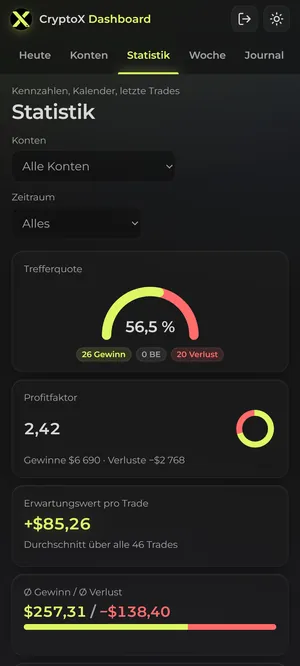
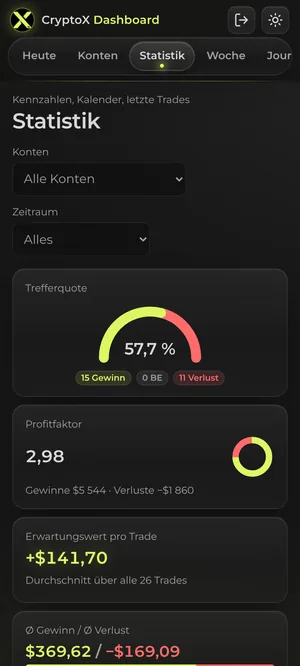
crypto-x.at: Fortschrittsbalken dünn, Hero mit Abstand, neue Dashboard-Bilder
Fortschrittsbalken wird abgeschnitten statt gestaucht (wie tim-kofler.at #219),
so bleibt der Leuchtschein eine dünne Linie. Das Dashboard-Fenster im Hero ist
rundum abgeschlossen und hat Luft zum Zahlenkasten. Alle Dashboard-Bilder neu
in der Glas-Optik, mit erfundenen Demo-Daten. Passende sizes für die
Handy-Bilder, Datenschutz-Link im Formular unterstrichen.

Claude-Session: https://claude.ai/code/session_01ECftty6yMTiCXhDQWzRpNz

diff --git a/index.html b/index.html
@@ -21,8 +21,8 @@
   <link rel="icon" href="/assets/img/favicon.svg" type="image/svg+xml">
   <link rel="preload" href="/assets/fonts/unbounded.woff2" as="font" type="font/woff2" crossorigin>
   <link rel="preload" href="/assets/fonts/manrope.woff2" as="font" type="font/woff2" crossorigin>
-  <link rel="stylesheet" href="/assets/css/style.css?v=a3c770bf">
-  <link rel="stylesheet" href="/assets/css/fx.css?v=b59cf787">
+  <link rel="stylesheet" href="/assets/css/style.css?v=704c3145">
+  <link rel="stylesheet" href="/assets/css/fx.css?v=bf43237c">
   <script type="application/ld+json">{"@context": "https://schema.org", "@graph": [{"@type": "ProfessionalService", "@id": "https://crypto-x.at/#unternehmen", "name": "Crypto X Solutions", "alternateName": "CryptoX", "url": "https://crypto-x.at/", "image": "https://crypto-x.at/assets/img/og-cryptox.jpg", "logo": "https://crypto-x.at/assets/img/logo-512.png", "email": "tk@crypto-x.at", "telephone": "+4367761773118", "address": {"@type": "PostalAddress", "streetAddress": "Lehen 2", "postalCode": "3281", "addressLocality": "Oberndorf an der Melk", "addressRegion": "Niederösterreich", "addressCountry": "AT"}, "areaServed": {"@type": "Country", "name": "Österreich"}, "founder": {"@id": "https://crypto-x.at/#tim"}, "description": "IT-Dienstleister aus Niederösterreich: Softwareentwicklung, Software-Schulungen und das CryptoX Dashboard für Prop-Firm-Trader.", "knowsAbout": ["Softwareentwicklung", "Prop Trading Tool", "Risikomanagement", "Trading-Software"], "sameAs": ["https://www.instagram.com/crypto_x_solutions/", "https://x.com/Crypto_X_Soln", "https://t.me/Crypto_X_Solutions", "https://g.page/r/CS2eZ1lg7mbtEBI"], "hasMap": "https://g.page/r/CS2eZ1lg7mbtEBI", "hasOfferCatalog": {"@type": "OfferCatalog", "name": "Leistungen", "itemListElement": [{"@type": "Offer", "itemOffered": {"@type": "Service", "name": "Softwareentwicklung", "description": "Individuelle Softwarelösungen wie Rechner, Auswertungen und Dashboards.", "areaServed": "AT"}}, {"@type": "Offer", "itemOffered": {"@type": "Service", "name": "Software-Schulungen", "description": "Schulungen zur technischen Einrichtung und Bedienung von Trading-Software.", "areaServed": "AT"}}, {"@type": "Offer", "itemOffered": {"@type": "Service", "name": "Risiko-Cockpit", "description": "Werkzeug für Risikomanagement im Futures- und Prop-Trading: Tageslimit, Positionsgröße, Checkliste und Trade-Log.", "areaServed": "AT"}}]}}, {"@type": "Person", "@id": "https://crypto-x.at/#tim", "name": "Tim Kofler", "jobTitle": "Softwareentwickler", "url": "https://crypto-x.at/ueber-mich/", "image": "https://crypto-x.at/assets/img/team/tim-portrait.webp", "worksFor": {"@id": "https://crypto-x.at/#unternehmen"}, "sameAs": ["https://www.instagram.com/crypto_x_solutions/", "https://x.com/Crypto_X_Soln", "https://t.me/Crypto_X_Solutions"]}, {"@type": "WebSite", "@id": "https://crypto-x.at/#website", "url": "https://crypto-x.at/", "name": "CryptoX", "inLanguage": "de-AT", "publisher": {"@id": "https://crypto-x.at/#unternehmen"}}]}</script>
 </head>
 <body>
@@ -78,9 +78,9 @@
     <div class="hero__shot reveal">
       <div class="window glass">
         <div class="window__bar"><i></i><i></i><i></i><span>CryptoX Dashboard · Demo-Daten</span></div>
-        <img src="/assets/img/dashboard/heute-1600.webp?v=f98479b8" srcset="/assets/img/dashboard/heute-960.webp?v=8f605e22 960w, /assets/img/dashboard/heute-1600.webp?v=f98479b8 1600w" sizes="(max-width: 1100px) 100vw, 1100px" alt="Tagesüberblick des CryptoX Dashboards mit Ergebnis aller Konten, Warnungen und Trading-Sessions" width="1600" height="830" fetchpriority="high">
+        <img src="/assets/img/dashboard/heute-1600.webp?v=f0af5555" srcset="/assets/img/dashboard/heute-960.webp?v=ab564073 960w, /assets/img/dashboard/heute-1600.webp?v=f0af5555 1600w" sizes="(max-width: 1100px) 100vw, 1100px" alt="Tagesüberblick des CryptoX Dashboards mit Ergebnis aller Konten, Warnungen und Trading-Sessions" width="1600" height="830" fetchpriority="high">
       </div>
-      <div class="hero__phone"><div class="phone"><img src="/assets/img/dashboard/handy-trade-600.webp?v=30f633b7" srcset="/assets/img/dashboard/handy-trade-300.webp?v=2899c89a 300w, /assets/img/dashboard/handy-trade-600.webp?v=30f633b7 600w" sizes="260px" alt="Trade am Smartphone eintragen" width="600" height="1333"></div></div>
+      <div class="hero__phone"><div class="phone"><img src="/assets/img/dashboard/handy-trade-600.webp?v=f23c286d" srcset="/assets/img/dashboard/handy-trade-300.webp?v=88f496b8 300w, /assets/img/dashboard/handy-trade-600.webp?v=f23c286d 600w" sizes="(max-width: 680px) 104px, (max-width: 1100px) 170px, 210px" alt="Trade am Smartphone eintragen" width="600" height="1333"></div></div>
     </div>
   </div>
 </section>
@@ -122,7 +122,7 @@
           <p>Ergebnis aller Konten, Konten im Rahmen oder mit Warnung, Fortschritt der Checkliste und die Trading-Sessions von Tokyo bis NY Close, automatisch an die Zeitumstellung angepasst.</p>
           <ul class="ticks"><li>Kacheln für Funded/Live, Challenges und alle Konten</li><li>Rückblick auf jeden früheren Handelstag</li><li>Wirtschaftskalender, übersetzte Schlagzeilen und Fed-Countdown</li><li>Begrüßung und Warnungen auf Wunsch vorgelesen</li></ul>
         </div>
-        <div class="tour__shot glass"><img src="/assets/img/dashboard/heute-1600.webp?v=f98479b8" srcset="/assets/img/dashboard/heute-960.webp?v=8f605e22 960w, /assets/img/dashboard/heute-1600.webp?v=f98479b8 1600w" sizes="(max-width: 900px) 100vw, 760px" alt="Tagesüberblick mit Ergebnis aller Konten und Trading-Sessions" width="1600" height="830" loading="lazy" decoding="async"></div>
+        <div class="tour__shot glass"><img src="/assets/img/dashboard/heute-1600.webp?v=f0af5555" srcset="/assets/img/dashboard/heute-960.webp?v=ab564073 960w, /assets/img/dashboard/heute-1600.webp?v=f0af5555 1600w" sizes="(max-width: 900px) 100vw, 760px" alt="Tagesüberblick mit Ergebnis aller Konten und Trading-Sessions" width="1600" height="830" loading="lazy" decoding="async"></div>
       </div>
       <div class="tour__panel" role="tabpanel" id="panel-konten" aria-labelledby="tab-konten">
         <div class="tour__text">
@@ -131,7 +131,7 @@
           <p>Eine Karte pro Konto mit Kontostand, Fortschritt und Puffer bis zu jeder Grenze. Warnungen stehen im Klartext da, bevor eine Regel bricht.</p>
           <ul class="ticks"><li>Beliebig viele Konten: Challenge, Funded oder Live</li><li>Messbalken für Tageslimit, Daily und Max Drawdown</li><li>Warnung wie „Nur noch $180 bis zur Drawdown-Grenze“</li><li>Kontostand anpassen, wenn du nicht jeden Trade einträgst</li></ul>
         </div>
-        <div class="tour__shot glass"><img src="/assets/img/dashboard/konten-1600.webp?v=e9aa9c13" srcset="/assets/img/dashboard/konten-960.webp?v=ae97ad49 960w, /assets/img/dashboard/konten-1600.webp?v=e9aa9c13 1600w" sizes="(max-width: 900px) 100vw, 760px" alt="Prop-Firm-Konten mit Drawdown, Tageslimit und Fortschritt" width="1600" height="1006" loading="lazy" decoding="async"></div>
+        <div class="tour__shot glass"><img src="/assets/img/dashboard/konten-1600.webp?v=366833ac" srcset="/assets/img/dashboard/konten-960.webp?v=8c5f8067 960w, /assets/img/dashboard/konten-1600.webp?v=366833ac 1600w" sizes="(max-width: 900px) 100vw, 760px" alt="Prop-Firm-Konten mit Drawdown, Tageslimit und Fortschritt" width="1600" height="1006" loading="lazy" decoding="async"></div>
       </div>
       <div class="tour__panel" role="tabpanel" id="panel-regeln" aria-labelledby="tab-regeln">
         <div class="tour__text">
@@ -140,7 +140,7 @@
           <p>Du hinterlegst für jedes Konto die Regeln, die wirklich gelten. Das Dashboard rechnet sie bei jedem Trade automatisch mit.</p>
           <ul class="ticks"><li>Trailing Drawdown (EOD) mit optionalem Lock oder statisch</li><li>Daily Loss Limit der Firma und eigenes Tageslimit</li><li>Konsistenzregel, Mindest-Handelstage, Gewinnziel und Frist</li><li>Auszahlungsrechner für Funded- und Live-Konten</li></ul>
         </div>
-        <div class="tour__shot glass"><img src="/assets/img/dashboard/regeln-1600.webp?v=0ea13e23" srcset="/assets/img/dashboard/regeln-960.webp?v=7fefca23 960w, /assets/img/dashboard/regeln-1600.webp?v=0ea13e23 1600w" sizes="(max-width: 900px) 100vw, 760px" alt="Regeln eines Kontos einstellen" width="1600" height="1000" loading="lazy" decoding="async"></div>
+        <div class="tour__shot glass"><img src="/assets/img/dashboard/regeln-1600.webp?v=ca87e21c" srcset="/assets/img/dashboard/regeln-960.webp?v=b5657e53 960w, /assets/img/dashboard/regeln-1600.webp?v=ca87e21c 1600w" sizes="(max-width: 900px) 100vw, 760px" alt="Regeln eines Kontos einstellen" width="1600" height="1000" loading="lazy" decoding="async"></div>
       </div>
       <div class="tour__panel" role="tabpanel" id="panel-trade" aria-labelledby="tab-trade">
         <div class="tour__text">
@@ -149,7 +149,7 @@
           <p>Konten anhaken, Kontrakte pro Konto wählen, fertig. Punkte, Ergebnis und Session rechnet das Dashboard selbst aus, jeder Wert lässt sich überschreiben.</p>
           <ul class="ticks"><li>Ein Trade auf beliebig vielen Konten gleichzeitig</li><li>Netto-Ergebnis live über alle gewählten Konten</li><li>13 Instrumente vorinstalliert, eigene beliebig ergänzbar</li><li>Import von Trades als JSON-Datei mit Duplikat-Erkennung</li></ul>
         </div>
-        <div class="tour__shot glass"><img src="/assets/img/dashboard/trade-1600.webp?v=24fc31db" srcset="/assets/img/dashboard/trade-960.webp?v=90048451 960w, /assets/img/dashboard/trade-1600.webp?v=24fc31db 1600w" sizes="(max-width: 900px) 100vw, 760px" alt="Trade auf mehreren Konten gleichzeitig eintragen" width="1600" height="1000" loading="lazy" decoding="async"></div>
+        <div class="tour__shot glass"><img src="/assets/img/dashboard/trade-1600.webp?v=aba2b192" srcset="/assets/img/dashboard/trade-960.webp?v=02d1c67f 960w, /assets/img/dashboard/trade-1600.webp?v=aba2b192 1600w" sizes="(max-width: 900px) 100vw, 760px" alt="Trade auf mehreren Konten gleichzeitig eintragen" width="1600" height="1000" loading="lazy" decoding="async"></div>
       </div>
       <div class="tour__panel" role="tabpanel" id="panel-statistik" aria-labelledby="tab-statistik">
         <div class="tour__text">
@@ -158,7 +158,7 @@
           <p>Kennzahlen pro Konto, für alle Challenges oder alle Funded-Konten, für jeden Zeitraum. Dazu Wochenübersicht und ein Journal mit CSV-Export.</p>
           <ul class="ticks"><li>Trefferquote, Profitfaktor und Erwartungswert pro Trade</li><li>P&amp;L-Kalender als Heatmap mit Wochensumme</li><li>Auswertung nach Entry-Typ, Haltedauer und Session</li><li>Derselbe Trade auf mehreren Konten zählt nur einmal</li></ul>
         </div>
-        <div class="tour__shot glass"><img src="/assets/img/dashboard/statistik-1600.webp?v=3347d251" srcset="/assets/img/dashboard/statistik-960.webp?v=a8933a0b 960w, /assets/img/dashboard/statistik-1600.webp?v=3347d251 1600w" sizes="(max-width: 900px) 100vw, 760px" alt="Trading-Statistik mit Trefferquote, Profitfaktor und P&amp;L-Kalender" width="1600" height="1000" loading="lazy" decoding="async"></div>
+        <div class="tour__shot glass"><img src="/assets/img/dashboard/statistik-1600.webp?v=5b136e12" srcset="/assets/img/dashboard/statistik-960.webp?v=ce16e687 960w, /assets/img/dashboard/statistik-1600.webp?v=5b136e12 1600w" sizes="(max-width: 900px) 100vw, 760px" alt="Trading-Statistik mit Trefferquote, Profitfaktor und P&amp;L-Kalender" width="1600" height="1000" loading="lazy" decoding="async"></div>
       </div>
       <div class="tour__panel" role="tabpanel" id="panel-checkliste" aria-labelledby="tab-checkliste">
         <div class="tour__text">
@@ -167,7 +167,7 @@
           <p>Mehrere Checklisten, zum Beispiel eine pro Markt. Punkte legst du selbst an, benennst sie um, sortierst oder löschst sie.</p>
           <ul class="ticks"><li>Eigene Punkte und Auswahlfelder wie Trend Woche/Tag/H4</li><li>News und Termine des Tages, eigener Zustand, Notizen</li><li>Farbe zeigt den Fortschritt, speichert automatisch</li><li>Verlauf: Plan eingehalten oder Checkliste unvollständig</li></ul>
         </div>
-        <div class="tour__shot glass"><img src="/assets/img/dashboard/checkliste-1600.webp?v=e17dcc1a" srcset="/assets/img/dashboard/checkliste-960.webp?v=6e3bcff3 960w, /assets/img/dashboard/checkliste-1600.webp?v=e17dcc1a 1600w" sizes="(max-width: 900px) 100vw, 760px" alt="Checkliste vor dem Trade mit Verlauf" width="1600" height="1006" loading="lazy" decoding="async"></div>
+        <div class="tour__shot glass"><img src="/assets/img/dashboard/checkliste-1600.webp?v=7eeff7d7" srcset="/assets/img/dashboard/checkliste-960.webp?v=c013c521 960w, /assets/img/dashboard/checkliste-1600.webp?v=7eeff7d7 1600w" sizes="(max-width: 900px) 100vw, 760px" alt="Checkliste vor dem Trade mit Verlauf" width="1600" height="1006" loading="lazy" decoding="async"></div>
       </div>
     </div>
     <p class="note-legal">Bilder aus einer Demo-Installation mit erfundenen Daten. Firmennamen in den Bildern sind Beispiel-Bezeichnungen der Demo-Konten, es besteht keine Partnerschaft. Das Dashboard ist ein Werkzeug zur Selbstkontrolle, <strong>keine Anlageberatung und keine Handelsplattform</strong>: Es führt keine Trades aus und verbindet sich mit keinem Broker.</p>
@@ -188,9 +188,9 @@
       </ul>
     </div>
     <div class="mobile__phones">
-      <div class="reveal"><div class="phone"><img src="/assets/img/dashboard/handy-heute-600.webp?v=f0038aba" srcset="/assets/img/dashboard/handy-heute-300.webp?v=5e0bfaf2 300w, /assets/img/dashboard/handy-heute-600.webp?v=f0038aba 600w" sizes="260px" alt="Tagesüberblick am Smartphone" width="600" height="1333" loading="lazy" decoding="async"></div></div>
-      <div class="reveal"><div class="phone"><img src="/assets/img/dashboard/handy-checkliste-600.webp?v=aa0e7ce4" srcset="/assets/img/dashboard/handy-checkliste-300.webp?v=06558ab9 300w, /assets/img/dashboard/handy-checkliste-600.webp?v=aa0e7ce4 600w" sizes="260px" alt="Checkliste am Smartphone" width="600" height="1333" loading="lazy" decoding="async"></div></div>
-      <div class="reveal"><div class="phone"><img src="/assets/img/dashboard/handy-statistik-600.webp?v=1ddd5401" srcset="/assets/img/dashboard/handy-statistik-300.webp?v=e6ed986a 300w, /assets/img/dashboard/handy-statistik-600.webp?v=1ddd5401 600w" sizes="260px" alt="Statistik am Smartphone" width="600" height="1333" loading="lazy" decoding="async"></div></div>
+      <div class="reveal"><div class="phone"><img src="/assets/img/dashboard/handy-heute-600.webp?v=2c37d0f8" srcset="/assets/img/dashboard/handy-heute-300.webp?v=fa1c8826 300w, /assets/img/dashboard/handy-heute-600.webp?v=2c37d0f8 600w" sizes="(max-width: 680px) 110px, 220px" alt="Tagesüberblick am Smartphone" width="600" height="1333" loading="lazy" decoding="async"></div></div>
+      <div class="reveal"><div class="phone"><img src="/assets/img/dashboard/handy-checkliste-600.webp?v=fabc8939" srcset="/assets/img/dashboard/handy-checkliste-300.webp?v=07abf834 300w, /assets/img/dashboard/handy-checkliste-600.webp?v=fabc8939 600w" sizes="(max-width: 680px) 110px, 220px" alt="Checkliste am Smartphone" width="600" height="1333" loading="lazy" decoding="async"></div></div>
+      <div class="reveal"><div class="phone"><img src="/assets/img/dashboard/handy-statistik-600.webp?v=dc71214f" srcset="/assets/img/dashboard/handy-statistik-300.webp?v=21d677b0 300w, /assets/img/dashboard/handy-statistik-600.webp?v=dc71214f 600w" sizes="(max-width: 680px) 110px, 220px" alt="Statistik am Smartphone" width="600" height="1333" loading="lazy" decoding="async"></div></div>
     </div>
   </div>
 </section>
@@ -509,7 +509,7 @@
 </footer>
 
 <script src="/assets/js/main.js?v=8c3680ab"></script>
-<script src="/assets/js/fx.js?v=e97bb7f9"></script>
+<script src="/assets/js/fx.js?v=1e196b98"></script>
 <script src="/assets/js/forms.js?v=184c4983"></script>
 <script type="module" src="/assets/js/x3d.js?v=9a384165"></script>
 </body>

diff --git a/prop-trading-tool/index.html b/prop-trading-tool/index.html
@@ -21,8 +21,8 @@
   <link rel="icon" href="/assets/img/favicon.svg" type="image/svg+xml">
   <link rel="preload" href="/assets/fonts/unbounded.woff2" as="font" type="font/woff2" crossorigin>
   <link rel="preload" href="/assets/fonts/manrope.woff2" as="font" type="font/woff2" crossorigin>
-  <link rel="stylesheet" href="/assets/css/style.css?v=a3c770bf">
-  <link rel="stylesheet" href="/assets/css/fx.css?v=b59cf787">
+  <link rel="stylesheet" href="/assets/css/style.css?v=704c3145">
+  <link rel="stylesheet" href="/assets/css/fx.css?v=bf43237c">
   <script type="application/ld+json">{"@context": "https://schema.org", "@graph": [{"@type": "SoftwareApplication", "name": "CryptoX Risiko-Cockpit", "applicationCategory": "BusinessApplication", "operatingSystem": "Web-Browser", "url": "https://crypto-x.at/prop-trading-tool/", "author": {"@id": "https://crypto-x.at/#unternehmen"}, "description": "Dashboard für Prop-Firm-Trader: rechnet für beliebig viele Konten Drawdown (EOD oder statisch), Tageslimit, Konsistenzregel, Mindest-Handelstage, Gewinnziel und Auszahlung mit, mit Trading-Journal, Statistik, Checklisten und Wirtschaftskalender. Live-Demo mit Tageslimit, Positionsgrößen-Rechner, Checkliste und Trade-Log."}, {"@type": "FAQPage", "mainEntity": [{"@type": "Question", "name": "Was ist das Risiko-Cockpit?", "acceptedAnswer": {"@type": "Answer", "text": "Ein Werkzeug im Browser, das dein Tageslimit, deine Positionsgröße, eine Checkliste vor dem Einstieg und dein Trade-Log in einer Ansicht zeigt. Es rechnet ausschließlich mit deinen eigenen Eingaben."}}, {"@type": "Question", "name": "Gibt das Tool Handelssignale oder Empfehlungen?", "acceptedAnswer": {"@type": "Answer", "text": "Nein. Das Cockpit gibt keine Signale, keine Empfehlungen und keine Prognosen. Es hilft dir nur, deine eigenen Regeln und die Regeln deines Kontos im Blick zu behalten. Die Entscheidungen triffst du selbst."}}, {"@type": "Question", "name": "Für welche Konten und Instrumente ist es gedacht?", "acceptedAnswer": {"@type": "Answer", "text": "Für Futures-Konten mit festen Regeln wie Tagesverlustlimit und Drawdown, wie sie bei Prop-Firm-Evaluierungen üblich sind. Der Rechner kennt die Punktwerte von MNQ, NQ, MES und ES."}}, {"@type": "Question", "name": "Muss ich mich anmelden oder etwas installieren?", "acceptedAnswer": {"@type": "Answer", "text": "Für die Live-Demo nicht. Sie läuft direkt im Browser, am Computer und am Handy. Beta-Tester erhalten einen eigenen Zugang zum vollen Dashboard."}}, {"@type": "Question", "name": "Wo werden meine Daten gespeichert?", "acceptedAnswer": {"@type": "Answer", "text": "In der Live-Demo nur im lokalen Speicher deines Browsers. Es wird nichts an CryptoX übertragen. Details stehen in der Datenschutzerklärung."}}, {"@type": "Question", "name": "Wie werde ich Beta-Tester?", "acceptedAnswer": {"@type": "Answer", "text": "Melde dich per E-Mail oder Telegram, am besten mit deiner Plattform und deinem Erfahrungsstand. Als Beta-Tester nutzt du das volle Dashboard und gibst Feedback, was funktioniert und was fehlt."}}]}]}</script>
 </head>
 <body>
@@ -135,7 +135,7 @@
       </div>
       <p>Die Live-Demo zeigt die Grundidee. Das volle CryptoX Dashboard rechnet für beliebig viele Prop-Konten Drawdown, Tageslimit, Konsistenzregel, Handelstage und Auszahlung mit und warnt, bevor eine Regel bricht. Konten, Regeln, Checklisten und Instrumente stellst du selbst ein.</p>
     </div>
-    <div class="tour__shot glass" style="margin-bottom:40px"><img src="/assets/img/dashboard/konten-1600.webp?v=e9aa9c13" srcset="/assets/img/dashboard/konten-960.webp?v=ae97ad49 960w, /assets/img/dashboard/konten-1600.webp?v=e9aa9c13 1600w" sizes="(max-width: 1100px) 100vw, 1100px" alt="Prop-Firm-Konten mit Drawdown, Tageslimit und Fortschritt im CryptoX Dashboard" width="1600" height="1006" loading="lazy" decoding="async"></div>
+    <div class="tour__shot glass" style="margin-bottom:40px"><img src="/assets/img/dashboard/konten-1600.webp?v=366833ac" srcset="/assets/img/dashboard/konten-960.webp?v=8c5f8067 960w, /assets/img/dashboard/konten-1600.webp?v=366833ac 1600w" sizes="(max-width: 1100px) 100vw, 1100px" alt="Prop-Firm-Konten mit Drawdown, Tageslimit und Fortschritt im CryptoX Dashboard" width="1600" height="1006" loading="lazy" decoding="async"></div>
     <div class="modules">
       <div class="module"><b>Regel-Engine</b><span>Trailing (EOD) oder statischer Drawdown, Daily Loss, Konsistenz, Handelstage, Gewinnziel und Frist je Konto</span></div>
       <div class="module"><b>Beliebig viele Konten</b><span>Challenge, Funded und Live mit Ampel und Warnungen im Klartext</span></div>
@@ -256,6 +256,6 @@
 </footer>
 
 <script src="/assets/js/main.js?v=8c3680ab"></script>
-<script src="/assets/js/fx.js?v=e97bb7f9"></script>
+<script src="/assets/js/fx.js?v=1e196b98"></script>
 </body>
 </html>

diff --git a/assets/css/style.css b/assets/css/style.css
@@ -107,7 +107,7 @@ p { margin: 0 0 18px; }
 }
 
 /* Hero */
-.hero { position: relative; padding: 110px 0 0; overflow: hidden; }
+.hero { position: relative; padding: 110px 0 72px; overflow: hidden; }
 .hero__inner { position: relative; text-align: center; }
 .hero__badge {
   display: inline-flex; align-items: center; gap: 10px; padding: 6px 14px 6px 6px; border-radius: 999px;
@@ -131,7 +131,7 @@ p { margin: 0 0 18px; }
 .window__bar i { width: 10px; height: 10px; border-radius: 50%; background: var(--line-2); }
 .window__bar i:first-child { background: var(--lime); }
 .window__bar span { margin-left: 10px; font-family: var(--mono); font-size: .75rem; color: var(--muted); }
-.hero__shot .window { border-bottom: 0; border-radius: 18px 18px 0 0; }
+.hero__shot .window { border-radius: 18px; }
 
 /* Zahlenleiste */
 .figures { display: grid; grid-template-columns: repeat(4, 1fr); border-top: 1px solid var(--line); border-bottom: 1px solid var(--line); }
@@ -286,7 +286,7 @@ p { margin: 0 0 18px; }
   body { font-size: 16px; }
   .container { padding: 0 16px; }
   .section { padding: 80px 0; }
-  .hero { padding-top: 64px; }
+  .hero { padding-top: 64px; padding-bottom: 44px; }
   .hero__shot { margin-top: 56px; }
   .xgrid { grid-template-columns: 1fr; }
   .xcell { min-height: 0; padding: 36px 24px; border-right: 0 !important; border-bottom: 1px solid var(--line); }
@@ -372,7 +372,7 @@ main p a:not(.btn), main li a:not(.btn), .faq__item p a, .glance dd a { text-dec
 .glass img { display: block; width: 100%; height: auto; }
 
 /* Hero: Fenster + schwebendes Handy */
-.hero__shot .window.glass { border-radius: 18px 18px 0 0; border-bottom: 0; }
+.hero__shot .window.glass { border-radius: 18px; }
 .hero__phone { position: absolute; right: -3%; bottom: 3%; width: 210px; z-index: 3; animation: float 7s ease-in-out infinite; }
 @keyframes float { 0%, 100% { transform: translateY(0) rotate(-2deg); } 50% { transform: translateY(-14px) rotate(-1deg); } }
 
@@ -480,6 +480,7 @@ main p a:not(.btn), main li a:not(.btn), .faq__item p a, .glance dd a { text-dec
 .form ::placeholder { color: #6f6f6f; }
 .form__check { display: grid; grid-template-columns: 22px 1fr; gap: 12px; align-items: start; font-size: .92rem; color: var(--muted); line-height: 1.55; cursor: pointer; }
 .form__check input { width: 20px; height: 20px; margin: 2px 0 0; accent-color: var(--lime); cursor: pointer; }
+.form__check a { text-decoration: underline; text-underline-offset: 3px; }
 .form .btn { justify-self: start; margin-top: 6px; }
 .form .btn:disabled { opacity: .6; cursor: wait; }
 .form__status { margin: 0; padding: 12px 16px; border-radius: 12px; font-size: .95rem; }

diff --git a/softwareentwicklung/index.html b/softwareentwicklung/index.html
@@ -21,8 +21,8 @@
   <link rel="icon" href="/assets/img/favicon.svg" type="image/svg+xml">
   <link rel="preload" href="/assets/fonts/unbounded.woff2" as="font" type="font/woff2" crossorigin>
   <link rel="preload" href="/assets/fonts/manrope.woff2" as="font" type="font/woff2" crossorigin>
-  <link rel="stylesheet" href="/assets/css/style.css?v=a3c770bf">
-  <link rel="stylesheet" href="/assets/css/fx.css?v=b59cf787">
+  <link rel="stylesheet" href="/assets/css/style.css?v=704c3145">
+  <link rel="stylesheet" href="/assets/css/fx.css?v=bf43237c">
   <script type="application/ld+json">{"@context": "https://schema.org", "@graph": [{"@type": "Service", "name": "Softwareentwicklung und Software-Schulungen", "description": "Individuelle Softwarelösungen, Rechner, Dashboards und Schulungen zur Bedienung von Trading-Software.", "url": "https://crypto-x.at/softwareentwicklung/", "provider": {"@id": "https://crypto-x.at/#unternehmen"}, "areaServed": {"@type": "Country", "name": "Österreich"}}, {"@type": "FAQPage", "mainEntity": [{"@type": "Question", "name": "Welche Art von Software entwickelst du?", "acceptedAnswer": {"@type": "Answer", "text": "Vor allem kleinere, maßgeschneiderte Werkzeuge: Rechner, Auswertungen, Dashboards und Web-Anwendungen, die im Browser laufen. Das Risiko-Cockpit ist ein Beispiel dafür."}}, {"@type": "Question", "name": "Was kostet eine individuelle Softwarelösung?", "acceptedAnswer": {"@type": "Answer", "text": "Das hängt stark vom Umfang ab. Beschreib mir kurz, welches Problem die Software lösen soll, dann bekommst du eine Einschätzung und ein unverbindliches Angebot."}}, {"@type": "Question", "name": "Was sind Software-Schulungen?", "acceptedAnswer": {"@type": "Answer", "text": "Ich zeige dir oder deinem Team, wie Software technisch eingerichtet und sicher bedient wird, zum Beispiel Trading-Plattformen mit Arbeitsbereichen, Charts und Order-Masken. Die Schulungen sind rein technisch: Es gibt keine Anlage- oder Handelsempfehlungen."}}]}]}</script>
 </head>
 <body>
@@ -196,6 +196,6 @@
 </footer>
 
 <script src="/assets/js/main.js?v=8c3680ab"></script>
-<script src="/assets/js/fx.js?v=e97bb7f9"></script>
+<script src="/assets/js/fx.js?v=1e196b98"></script>
 </body>
 </html>

diff --git a/2025/03/19/kryptowaehrungen-fuer-einsteiger-ein-kompletter-leitfaden-fuer-den-einstieg/index.html b/2025/03/19/kryptowaehrungen-fuer-einsteiger-ein-kompletter-leitfaden-fuer-den-einstieg/index.html
@@ -21,8 +21,8 @@
   <link rel="icon" href="/assets/img/favicon.svg" type="image/svg+xml">
   <link rel="preload" href="/assets/fonts/unbounded.woff2" as="font" type="font/woff2" crossorigin>
   <link rel="preload" href="/assets/fonts/manrope.woff2" as="font" type="font/woff2" crossorigin>
-  <link rel="stylesheet" href="/assets/css/style.css?v=a3c770bf">
-  <link rel="stylesheet" href="/assets/css/fx.css?v=b59cf787">
+  <link rel="stylesheet" href="/assets/css/style.css?v=704c3145">
+  <link rel="stylesheet" href="/assets/css/fx.css?v=bf43237c">
   <script type="application/ld+json">{"@context": "https://schema.org", "@type": "Article", "headline": "Kryptowährungen für Einsteiger: Ein kompletter Leitfaden", "datePublished": "2025-03-19", "image": "https://crypto-x.at/assets/img/krypto-einsteiger.webp", "inLanguage": "de-AT", "mainEntityOfPage": "https://crypto-x.at/2025/03/19/kryptowaehrungen-fuer-einsteiger-ein-kompletter-leitfaden-fuer-den-einstieg/", "author": {"@type": "Person", "name": "Tim Kofler", "url": "https://crypto-x.at/ueber-mich/"}, "publisher": {"@type": "Organization", "name": "Crypto X Solutions", "url": "https://crypto-x.at/"}}</script>
 </head>
 <body>
@@ -180,6 +180,6 @@
 </footer>
 
 <script src="/assets/js/main.js?v=8c3680ab"></script>
-<script src="/assets/js/fx.js?v=e97bb7f9"></script>
+<script src="/assets/js/fx.js?v=1e196b98"></script>
 </body>
 </html>

diff --git a/2025/01/27/die-bekanntesten-trading-strategien/index.html b/2025/01/27/die-bekanntesten-trading-strategien/index.html
@@ -21,8 +21,8 @@
   <link rel="icon" href="/assets/img/favicon.svg" type="image/svg+xml">
   <link rel="preload" href="/assets/fonts/unbounded.woff2" as="font" type="font/woff2" crossorigin>
   <link rel="preload" href="/assets/fonts/manrope.woff2" as="font" type="font/woff2" crossorigin>
-  <link rel="stylesheet" href="/assets/css/style.css?v=a3c770bf">
-  <link rel="stylesheet" href="/assets/css/fx.css?v=b59cf787">
+  <link rel="stylesheet" href="/assets/css/style.css?v=704c3145">
+  <link rel="stylesheet" href="/assets/css/fx.css?v=bf43237c">
   <script type="application/ld+json">{"@context": "https://schema.org", "@type": "Article", "headline": "Die bekanntesten Trading-Strategien: Day Trading, Swing Trading und HODL", "datePublished": "2025-01-27", "image": "https://crypto-x.at/assets/img/trading-strategien.webp", "inLanguage": "de-AT", "mainEntityOfPage": "https://crypto-x.at/2025/01/27/die-bekanntesten-trading-strategien/", "author": {"@type": "Person", "name": "Tim Kofler", "url": "https://crypto-x.at/ueber-mich/"}, "publisher": {"@type": "Organization", "name": "Crypto X Solutions", "url": "https://crypto-x.at/"}}</script>
 </head>
 <body>
@@ -174,6 +174,6 @@
 </footer>
 
 <script src="/assets/js/main.js?v=8c3680ab"></script>
-<script src="/assets/js/fx.js?v=e97bb7f9"></script>
+<script src="/assets/js/fx.js?v=1e196b98"></script>
 </body>
 </html>

diff --git a/2025/03/19/warum-kryptowaehrungen-die-zukunft-der-finanzwelt-sind/index.html b/2025/03/19/warum-kryptowaehrungen-die-zukunft-der-finanzwelt-sind/index.html
@@ -21,8 +21,8 @@
   <link rel="icon" href="/assets/img/favicon.svg" type="image/svg+xml">
   <link rel="preload" href="/assets/fonts/unbounded.woff2" as="font" type="font/woff2" crossorigin>
   <link rel="preload" href="/assets/fonts/manrope.woff2" as="font" type="font/woff2" crossorigin>
-  <link rel="stylesheet" href="/assets/css/style.css?v=a3c770bf">
-  <link rel="stylesheet" href="/assets/css/fx.css?v=b59cf787">
+  <link rel="stylesheet" href="/assets/css/style.css?v=704c3145">
+  <link rel="stylesheet" href="/assets/css/fx.css?v=bf43237c">
   <script type="application/ld+json">{"@context": "https://schema.org", "@type": "Article", "headline": "Warum Kryptowährungen die Finanzwelt verändern", "datePublished": "2025-03-19", "image": "https://crypto-x.at/assets/img/krypto-netzwerk.webp", "inLanguage": "de-AT", "mainEntityOfPage": "https://crypto-x.at/2025/03/19/warum-kryptowaehrungen-die-zukunft-der-finanzwelt-sind/", "author": {"@type": "Person", "name": "Tim Kofler", "url": "https://crypto-x.at/ueber-mich/"}, "publisher": {"@type": "Organization", "name": "Crypto X Solutions", "url": "https://crypto-x.at/"}}</script>
 </head>
 <body>
@@ -163,6 +163,6 @@
 </footer>
 
 <script src="/assets/js/main.js?v=8c3680ab"></script>
-<script src="/assets/js/fx.js?v=e97bb7f9"></script>
+<script src="/assets/js/fx.js?v=1e196b98"></script>
 </body>
 </html>

diff --git a/wissen/prop-trading-einfach-erklaert/index.html b/wissen/prop-trading-einfach-erklaert/index.html
@@ -21,8 +21,8 @@
   <link rel="icon" href="/assets/img/favicon.svg" type="image/svg+xml">
   <link rel="preload" href="/assets/fonts/unbounded.woff2" as="font" type="font/woff2" crossorigin>
   <link rel="preload" href="/assets/fonts/manrope.woff2" as="font" type="font/woff2" crossorigin>
-  <link rel="stylesheet" href="/assets/css/style.css?v=a3c770bf">
-  <link rel="stylesheet" href="/assets/css/fx.css?v=b59cf787">
+  <link rel="stylesheet" href="/assets/css/style.css?v=704c3145">
+  <link rel="stylesheet" href="/assets/css/fx.css?v=bf43237c">
   <script type="application/ld+json">{"@context": "https://schema.org", "@type": "Article", "headline": "Prop Trading einfach erklärt: Challenge, Regeln und Risiken", "datePublished": "2026-10-13", "image": "https://crypto-x.at/assets/img/prop-trading.webp", "inLanguage": "de-AT", "mainEntityOfPage": "https://crypto-x.at/wissen/prop-trading-einfach-erklaert/", "author": {"@type": "Person", "name": "Tim Kofler", "url": "https://crypto-x.at/ueber-mich/"}, "publisher": {"@type": "Organization", "name": "Crypto X Solutions", "url": "https://crypto-x.at/"}}</script>
 </head>
 <body>
@@ -194,6 +194,6 @@
 </footer>
 
 <script src="/assets/js/main.js?v=8c3680ab"></script>
-<script src="/assets/js/fx.js?v=e97bb7f9"></script>
+<script src="/assets/js/fx.js?v=1e196b98"></script>
 </body>
 </html>

diff --git a/assets/css/fx.css b/assets/css/fx.css
@@ -59,8 +59,9 @@ h2 .lime, h3 .lime { background: linear-gradient(100deg, #dcf763 0%, #ecff9e 55%
 @keyframes fx-marquee { to { transform: translateX(-50%); } }
 
 /* Lesefortschritt oben */
-.fx-progress { position: fixed; top: 0; left: 0; height: 3px; width: 100%; z-index: 100; transform-origin: 0 50%; transform: scaleX(0);
-  background: linear-gradient(90deg, #b9d94a, #dcf763 60%, #f3ffb5); box-shadow: 0 0 12px rgba(220,247,99,.55); pointer-events: none; }
+/* Abschneiden statt Stauchen (clip-path setzt fx.js): mit scaleX wurde der Leuchtschein am Anfang zu einem hohen Fleck */
+.fx-progress { position: fixed; top: 0; left: 0; height: 3px; width: 100%; z-index: 100; clip-path: inset(0 100% -14px 0);
+  background: linear-gradient(90deg, #b9d94a, #dcf763 60%, #f3ffb5); box-shadow: 0 2px 10px rgba(220,247,99,.5); pointer-events: none; }
 
 ::selection { background: var(--lime); color: var(--ink); }
 

diff --git a/cockpit/index.html b/cockpit/index.html
@@ -21,8 +21,8 @@
   <link rel="icon" href="/assets/img/favicon.svg" type="image/svg+xml">
   <link rel="preload" href="/assets/fonts/unbounded.woff2" as="font" type="font/woff2" crossorigin>
   <link rel="preload" href="/assets/fonts/manrope.woff2" as="font" type="font/woff2" crossorigin>
-  <link rel="stylesheet" href="/assets/css/style.css?v=a3c770bf">
-  <link rel="stylesheet" href="/assets/css/fx.css?v=b59cf787">
+  <link rel="stylesheet" href="/assets/css/style.css?v=704c3145">
+  <link rel="stylesheet" href="/assets/css/fx.css?v=bf43237c">
   <link rel="stylesheet" href="/assets/css/cockpit.css?v=b4f16ef9">
 </head>
 <body>
@@ -217,7 +217,7 @@
 </footer>
 
 <script src="/assets/js/main.js?v=8c3680ab"></script>
-<script src="/assets/js/fx.js?v=e97bb7f9"></script>
+<script src="/assets/js/fx.js?v=1e196b98"></script>
 <script src="/assets/js/cockpit.js?v=d046e74b"></script>
 </body>
 </html>

diff --git a/beta/index.html b/beta/index.html
@@ -21,8 +21,8 @@
   <link rel="icon" href="/assets/img/favicon.svg" type="image/svg+xml">
   <link rel="preload" href="/assets/fonts/unbounded.woff2" as="font" type="font/woff2" crossorigin>
   <link rel="preload" href="/assets/fonts/manrope.woff2" as="font" type="font/woff2" crossorigin>
-  <link rel="stylesheet" href="/assets/css/style.css?v=a3c770bf">
-  <link rel="stylesheet" href="/assets/css/fx.css?v=b59cf787">
+  <link rel="stylesheet" href="/assets/css/style.css?v=704c3145">
+  <link rel="stylesheet" href="/assets/css/fx.css?v=bf43237c">
 </head>
 <body>
 
@@ -163,7 +163,7 @@
 </footer>
 
 <script src="/assets/js/main.js?v=8c3680ab"></script>
-<script src="/assets/js/fx.js?v=e97bb7f9"></script>
+<script src="/assets/js/fx.js?v=1e196b98"></script>
 <script src="/assets/js/forms.js?v=184c4983"></script>
 </body>
 </html>

diff --git a/newsletter/index.html b/newsletter/index.html
@@ -21,8 +21,8 @@
   <link rel="icon" href="/assets/img/favicon.svg" type="image/svg+xml">
   <link rel="preload" href="/assets/fonts/unbounded.woff2" as="font" type="font/woff2" crossorigin>
   <link rel="preload" href="/assets/fonts/manrope.woff2" as="font" type="font/woff2" crossorigin>
-  <link rel="stylesheet" href="/assets/css/style.css?v=a3c770bf">
-  <link rel="stylesheet" href="/assets/css/fx.css?v=b59cf787">
+  <link rel="stylesheet" href="/assets/css/style.css?v=704c3145">
+  <link rel="stylesheet" href="/assets/css/fx.css?v=bf43237c">
 </head>
 <body>
 
@@ -149,7 +149,7 @@
 </footer>
 
 <script src="/assets/js/main.js?v=8c3680ab"></script>
-<script src="/assets/js/fx.js?v=e97bb7f9"></script>
+<script src="/assets/js/fx.js?v=1e196b98"></script>
 <script src="/assets/js/forms.js?v=184c4983"></script>
 </body>
 </html>
